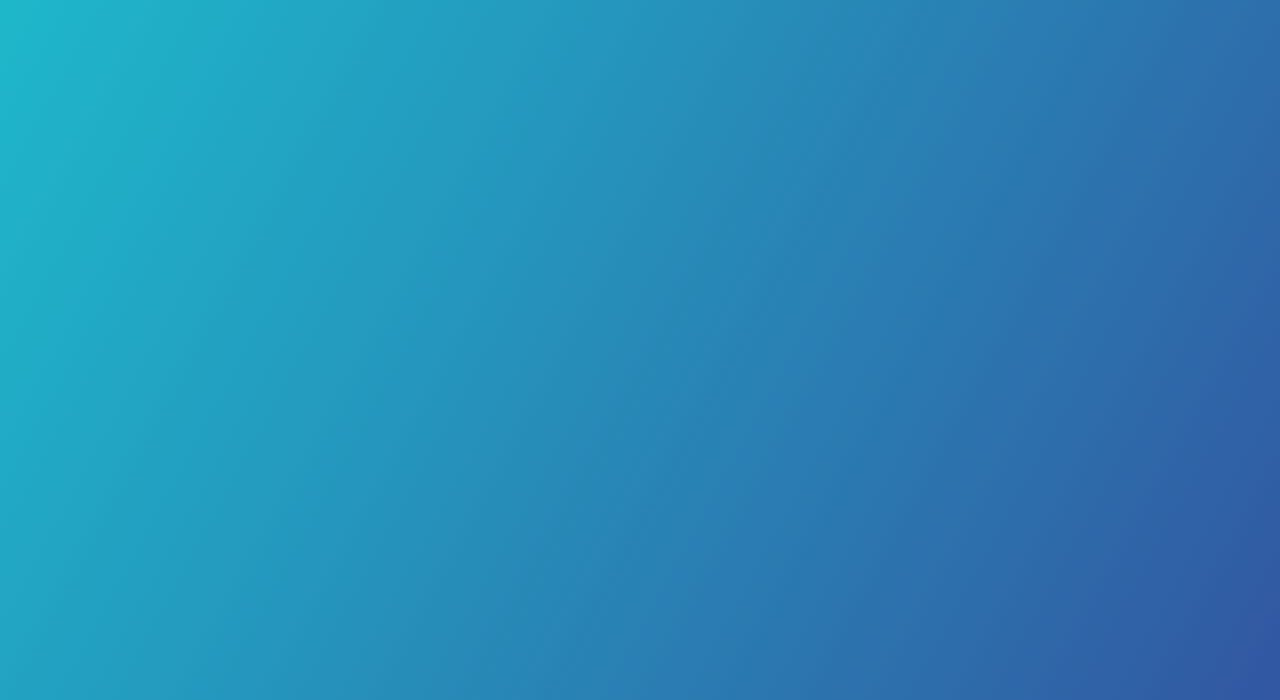
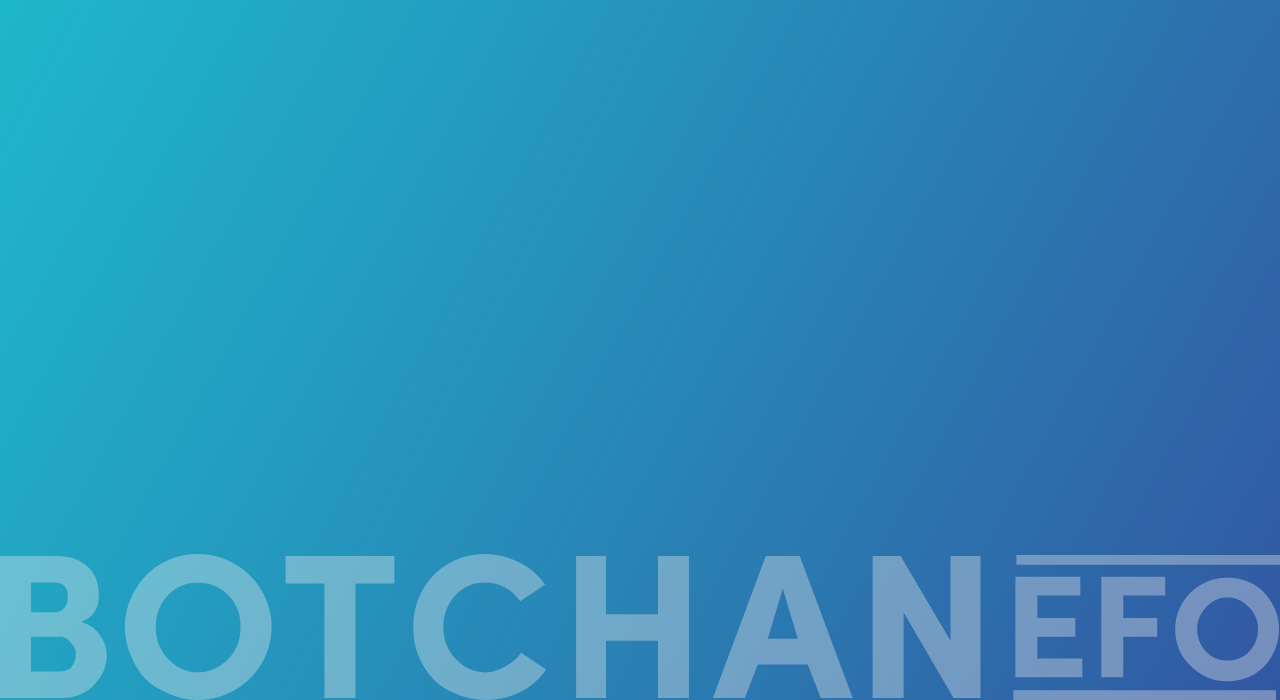
update layout

Changed region(s): [[0.0, 0.78, 1.0, 1.0]]

diff --git a/css/index.css b/css/index.css
@@ -114,7 +114,6 @@ header.scroll #header_nav .en_black {
   width: 72px;
   height: 22px;
   border-radius: 20px;
-  background-color: red;
 }
 #header .mobile_demo_box .start_chat_btn:focus {
   outline: none;
@@ -279,7 +278,7 @@ header.scroll #header_nav .en_black {
 }
 .section.bg1 .box_container .box_item {
   display: table;
-  width: 31%;
+  width: 30%;
   float: left;
   position: relative;
   min-height: 1px;
@@ -337,7 +336,7 @@ header.scroll #header_nav .en_black {
 }
 
 .section.bg2 {
-  background: url(../images/bg2/background.png) no-repeat center transparent;
+  background: url(../images/bg2/background.png) no-repeat bottom transparent;
   background-size: cover;
   color: #fff;
 }
@@ -1509,14 +1508,91 @@ header.scroll #header_nav .en_black {
     height: 10px;
     bottom: 18px;
   }
-
-
-
-
-
-
-
-
+  #header .efo_demo .wc-webchat {
+    width: 151px;
+    height: 264px;
+  }
+  #header .efo_demo {
+    right: 98px;
+  }
+  .section.bg1 .text-1-wrapper p {
+    margin-bottom: 0;
+    padding-bottom: 5px;
+  }
+  .section.bg2 {
+    background: url(../images/bg2/background_mobile.png) no-repeat bottom transparent;
+    background-size: cover;
+  }
+  .section.bg2 {
+    padding-top: 20px;
+  }
+  .section.bg2 .text-1-content {
+    margin: 0 10px;
+  }
+  .section.bg2 .text-2-content {
+    margin: 10px 10px 0 0;
+  }
+  .section.bg2 .bg2_item {
+    margin: 0;
+    padding: 0;
+  }
+  .section.bg2 .bg2_item li {
+    max-width: fit-content;
+    width: 100%;
+    height: auto;
+    margin: 15px 30px;
+  }
+  .section.bg3 {
+    padding-top: 20px;
+  }
+  .section.bg3 .text-1-box,
+  .section.bg3 .service_item.service_pc {
+    display: none;
+  }
+  .section.bg3 .bg3_item.left {
+    margin: 0;
+  }
+  .section.bg3 .bg3_item li {
+    line-height: 25px;
+    font-size: 13px;
+  }
+  .section.bg3 .bg3_item.left li {
+    padding: 0 30px 0 0;
+  }
+  .section.bg3 .bg3_item.right li {
+    padding: 0 0 0 30px;
+  }
+  .section.bg3 .bg3_item {
+    width: 68%;
+    overflow: hidden;
+  }
+  .section.bg3 .bg3_item.left .item2, .section.bg3 .bg3_item.left .item3 {
+    width: 94%;
+  }
+  .section.bg3 .service_item.service_mobile {
+    width: 100%;
+  }
+  .section.bg3 .service_item img {
+    margin: 0 auto;
+    display: block;
+  }
+  .section.bg3 .service_view {
+    padding: 0;
+  }
+  .section.bg4 {
+    padding-bottom: 60px;
+  }
+  .section.bg4 .service_item {
+    width: 100%;
+  }
+  .section.bg4 .screen_device {
+    margin: 0 auto;
+    display: block;
+  }
+  .section.bg4 .screen_img {
+    top: 69px;
+    right: 213px;
+  }
 
 
 

diff --git a/js/custom.js b/js/custom.js
@@ -30,9 +30,9 @@ $(function(){
         $(this).parent().addClass('active');
     });
 
-    var windown_w = $(document).width();
-    resetHeader(windown_w);
+    resetHeader();
     setSixeDemoBg4();
+    setDemoOption();
 
 
 
@@ -45,8 +45,9 @@ $(window).resize(function () {
     setTimeout(function () {
         var windown_w = $(document).width();
         resetPriceForm();
-        resetHeader(windown_w);
+        resetHeader();
         setSixeDemoBg4();
+        setDemoOption();
     }, 100);
 
 });
@@ -69,15 +70,34 @@ function resetPriceForm() {
     table_icon.css('left', left + 'px');
 }
 
-function resetHeader(windown_w) {
+function resetHeader() {
     //set magrin top chat demo box
+    var windown_w = $(window).width();
     if(windown_w <= 760) {
-        var mobile_demo_box_w = $('#header .mobile_demo_box').innerWidth();
+        var mobile_demo_box_w = $('#header .mobile_demo_box').width();
         var header_demo_w = $('#header .header_demo').innerWidth();
-        $('#header .header_demo').css('right', (mobile_demo_box_w - header_demo_w) / 2);
-        $('#header .start_chat_btn').css('right', (mobile_demo_box_w - header_demo_w ) / 2);
+        $('#header .header_demo').css('right', (mobile_demo_box_w - header_demo_w + 45) / 2);
+        $('#header .start_chat_btn').css('right', (header_demo_w - 280 ));
     } else {
         $('#header .header_demo').attr('style', null);
         $('#header .start_chat_btn').attr('style', null);
+    }
+}
+
+function setDemoOption() {
+    var windown_w = $(window).width();
+    if(windown_w <= 760 ) {
+        if($('#bg3 .bg3_item_box').length <= 1) {
+            var bg3_item_box = $('#bg3 .bg3_item_box').clone();
+            bg3_item_box.find('.bg3_item.left').remove();
+            $('#bg3').append(bg3_item_box);
+
+            $('#bg3 .bg3_item_box').first().find('.bg3_item.right').hide();
+        }
+    } else {
+        $('#bg3 .bg3_item_box').first().find('.bg3_item.right').show();
+        if($('#bg3 .bg3_item_box').length > 1) {
+            $('#bg3 .bg3_item_box').last().remove();
+        }
     }
 }
